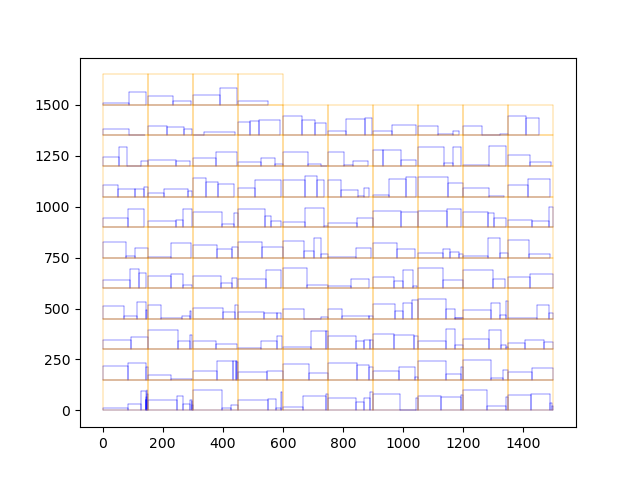
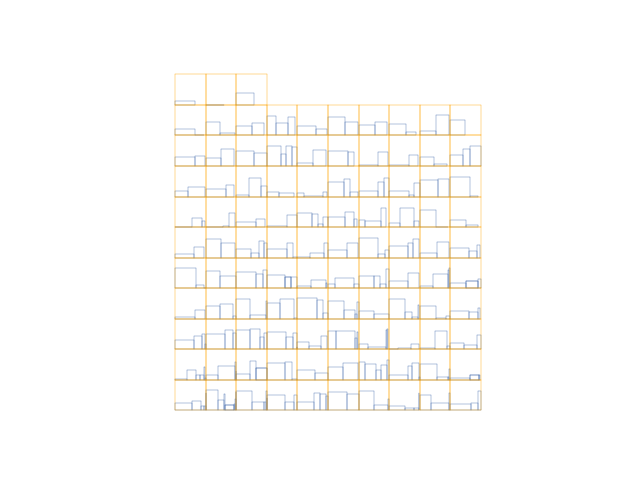
Plot: Made axis the same length

diff --git a/src/gui/visualization.py b/src/gui/visualization.py
@@ -1,6 +1,7 @@
 import matplotlib.pyplot as plt
 import numpy as np
 import pandas as pd
+import seaborn as sns
 
 data = pd.read_csv("/Users/pw-home/IdeaProjects/Optimierungsalgorithmen/data.csv", header=None, delimiter=";")
 boxData = pd.read_csv("/Users/pw-home/IdeaProjects/Optimierungsalgorithmen/boxData.csv", header=None, delimiter=";")
@@ -10,7 +11,15 @@ yValues = np.fromstring(data.iloc[1].values.tolist()[0], dtype=int, sep=',')
 boxXValues = np.fromstring(boxData.iloc[0].values.tolist()[0], dtype=int, sep=',')
 boxYValues = np.fromstring(boxData.iloc[1].values.tolist()[0], dtype=int, sep=',')
 
+
+
+# General plot configuration
 fig = plt.figure()
+plt.gca().set_aspect('equal', adjustable='box')
+plt.axis('off')
+sns.set()
+sns.set_style("ticks", {'axes.grid' : False})
+sns.despine(top=True, right=True, left=True, bottom=True)
 
 # Plot the rectangles
 for i in range(0, len(xValues), 4):
@@ -28,6 +37,11 @@ for i in range(0, len(boxXValues), 4):
     plt.plot([boxXValues[i + 2], boxXValues[i + 3]], [boxYValues[i + 2], boxYValues[i + 3]], 'orange', linewidth=0.3)  # upper edges
     plt.plot([boxXValues[i], boxXValues[i]], [boxYValues[i], boxYValues[i + 2]], 'orange', linewidth=0.3)  # left edges
     plt.plot([boxXValues[i + 1], boxXValues[i + 1]], [boxYValues[i], boxYValues[i + 2]], 'orange', linewidth=0.3)  # right edges
+
+
+
+
+
 
 
 # plt.show()

diff --git a/src/Main.java b/src/Main.java
@@ -4,7 +4,7 @@ import java.util.ArrayList;
 
 public class Main {
 
-    public static void main(String[] args) throws CloneNotSupportedException {
+    public static void main(String[] args) {
 
 
 
